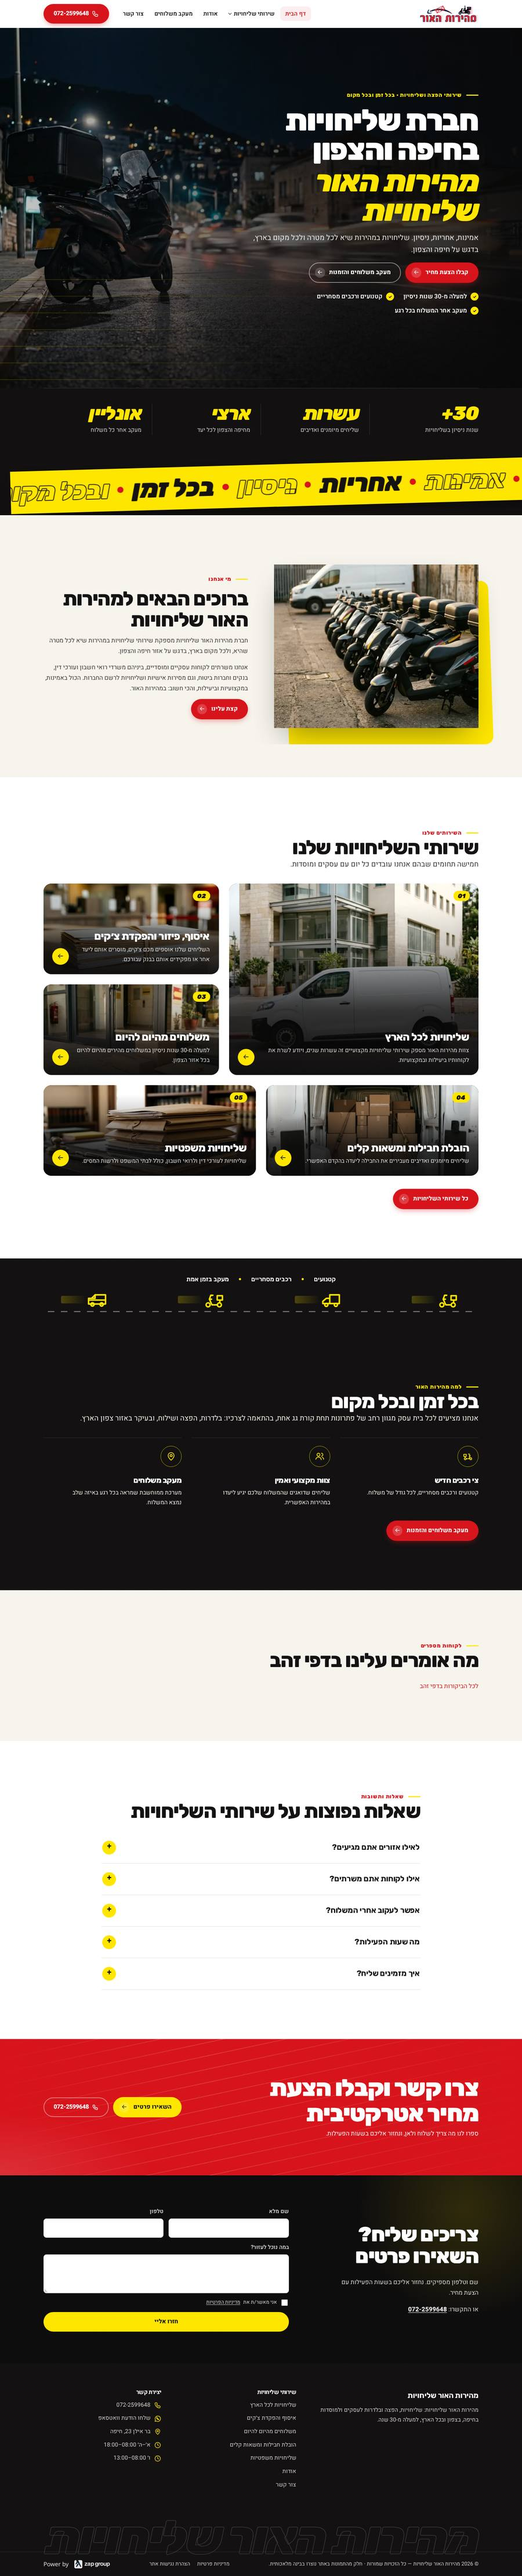
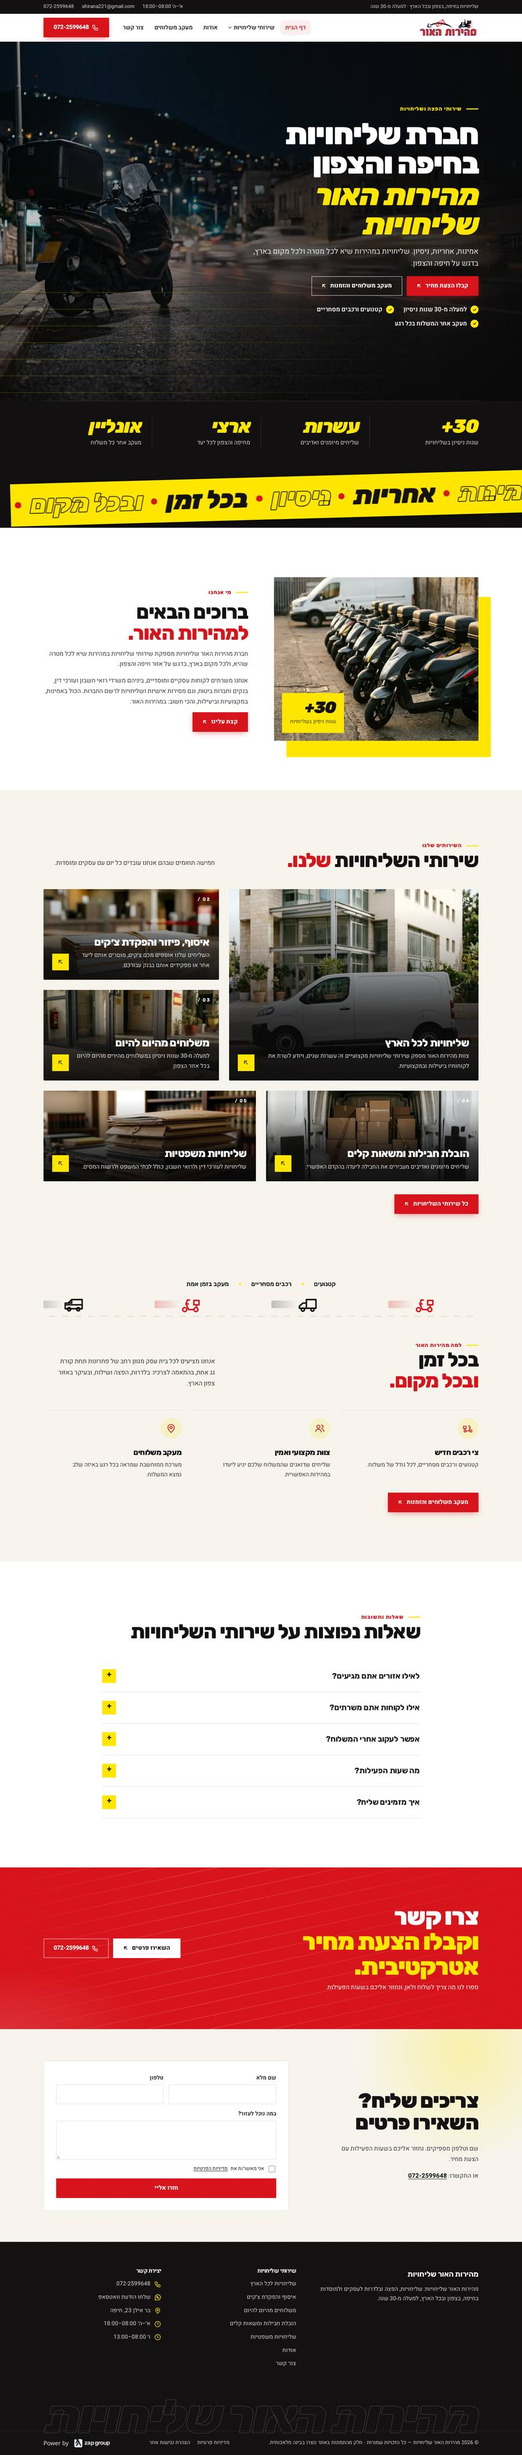
mehirut-haor: benchmark pass (sharp shapes, light lead band, road+features on light, 30+ badge, accents, YouTube on about, mobile hero); signature refinements; reviews only when real; zs static
- signature: one shape language from the radius token, ↖ arrow buttons, numbered tile labels, square FAQ/badge,
  light lead band, road+features merge on the same ground, phone hero framing + lighter scrim
- reviews section hidden until the Dapei Zahav widget shows settled real reviews (it paints a loading frame
  and empties itself when its API refuses staging hosts)
- zs static: offline browsable copy, Windows-safe file names (no ?ver=), fonts embedded, Elementor chunks + hero
  video included, form shows a notice

Claude-Session: https://claude.ai/code/session_01EGxYKywkt3VsBbtcmvV4mm

diff --git a/wp/theme/zap-base/assets/main.css b/wp/theme/zap-base/assets/main.css
@@ -724,3 +724,45 @@ body .zs-cards--bento .zs-card--img .e-con.zs-card__body { flex-grow: 0; --paddi
 .zs-p-signature .zs-prose ul li { position: relative; padding-inline-start: 26px; margin: 0; }
 .zs-p-signature .zs-prose ul li::before { content: ""; position: absolute; inset-inline-start: 0; top: .62em; width: 10px; height: 10px; border-radius: 2px; background: var(--c-accent); box-shadow: 2px 2px 0 var(--c-ink); }
 .zs-p-signature .zs-prose ol li::marker { color: var(--c-primary); font-weight: 800; }
+
+/* ===================== signature refinements (benchmark pass) ===================== */
+/* one shape language: everything follows the radius token (set radius 0–4 for sharp, 12+ for soft) */
+.zs-p-signature .zs-b .elementor-button, .zs-p-signature .zs-btn, .zs-p-signature .zs-header__cta { border-radius: var(--r-sm); }
+.zs-p-signature .zs-b-primary:not(.zs-b-tel):not(.zs-b-wa) .elementor-button::after,
+.zs-p-signature .zs-b-ghost:not(.zs-b-tel):not(.zs-b-wa) .elementor-button::after { content: "↖"; width: auto; height: auto; margin-inline-end: 0; background: none; border-radius: 0; font-weight: 700; }
+.zs-p-signature .zs-b .elementor-button:hover::after { transform: translate(-3px, -3px); }
+[dir="ltr"] .zs-p-signature .zs-b .elementor-button::after { content: "↗"; }
+.zs-cards--bento .e-con.zs-card--img::after { border-radius: 0; background: none; color: #fff; padding: 0; font-style: normal; font-weight: 700; font-size: .8rem; letter-spacing: .14em; content: counter(zs-tile, decimal-leading-zero) " /"; }
+.zs-cards--bento.zs-cards--linked .zs-card--img .e-con.zs-card__body::after { border-radius: var(--r-sm); content: "↖"; }
+.zs-p-signature .zs-faq__list .elementor-toggle .elementor-toggle-icon { border-radius: var(--r-sm); }
+.zs-p-signature .e-con.zs-split__media::before, .zs-p-signature .zs-split--rev .e-con.zs-split__media::before { transform: none; }
+.zs-p-signature .zs-badge { background: var(--c-accent); color: var(--c-accent-ink); box-shadow: none; border-radius: var(--r-sm); }
+.zs-p-signature .zs-badge strong { font-size: clamp(2rem, 1.4rem + 1.6vw, 2.8rem); font-weight: 900; font-style: italic; letter-spacing: -.03em; }
+.zs-p-signature .zs-badge span { color: color-mix(in srgb, var(--c-accent-ink) 82%, transparent); }
+.zs-p-signature .zs-split__media .elementor-element.zs-badge-w { inset-inline-start: auto; inset-inline-end: 22px; inset-block-end: 22px; z-index: 5; }
+.zs-p-signature .zs-split__media .zs-split__img { position: relative; z-index: 1; }
+@media (max-width: 900px) { .zs-p-signature .zs-split__media .elementor-element.zs-badge-w { inset-inline-end: 12px; inset-block-end: 12px; } }
+
+/* page end: brand CTA -> LIGHT lead band -> dark footer */
+.zs-p-signature .zs-leadband { background: var(--c-surface); color: var(--c-text); }
+.zs-p-signature .zs-leadband::before { background: radial-gradient(closest-side, color-mix(in srgb, var(--c-accent) 55%, transparent), transparent); opacity: .5; }
+.zs-p-signature .zs-leadband::after { display: none; }
+.zs-p-signature .zs-leadband h2, .zs-p-signature .zs-leadband__or a { color: var(--c-ink); }
+.zs-p-signature .zs-leadband .zs-form { background: var(--c-bg); padding: clamp(20px, 3vw, 34px); border: 1px solid var(--c-line); border-radius: var(--r-sm); color: var(--c-ink); }
+.zs-p-signature .zs-leadband .zs-form__submit { background: var(--c-primary); color: var(--c-primary-ink); }
+.zs-p-signature .zs-leadband .zs-form__submit:hover { background: color-mix(in srgb, var(--c-primary) 86%, #000); color: var(--c-primary-ink); }
+.zs-p-signature .zs-field input, .zs-p-signature .zs-field textarea { border-radius: var(--r-sm); }
+
+/* road + features on the same ground read as one section: no double padding between them */
+body .e-con.zs-road.zs-bg-surface + .e-con.zs-features.zs-bg-surface,
+body .e-con.zs-road.zs-bg-dark + .e-con.zs-features.zs-bg-dark { --padding-top: clamp(16px, 2vw, 28px); }
+body .e-con.zs-road { --padding-bottom: clamp(12px, 1.6vw, 24px); }
+
+/* reviews: shown only once the Dapei Zahav widget has really rendered reviews (site.js), never as an empty block */
+body .e-con.zs-reviews-sec:not(.zs-has-reviews) { display: none !important; }
+/* signature hero on phones: keep the subject in frame, lighter scrim at the top, less dead space */
+@media (max-width: 767px) {
+  .zs-p-signature .e-con.zs-hero--home { min-height: 0; --padding-top: 72px; --padding-bottom: 96px; }
+  .zs-p-signature.zs-hv-image .zs-hero--img .zs-hero__img img { object-position: 22% 60%; }
+  .zs-p-signature.zs-hv-image .zs-hero--img .zs-hero__media::after { background: linear-gradient(0deg, rgb(10 9 9 / .94) 0%, rgb(10 9 9 / .78) 45%, rgb(10 9 9 / .42) 100%); }
+}

diff --git a/wp/theme/zap-base/assets/site.js b/wp/theme/zap-base/assets/site.js
@@ -79,6 +79,20 @@
     }
   }
 
+  /* ---------- reviews: show the section only while the widget shows real reviews ----------
+     The Dapei Zahav widget first paints a "טוען חוות דעת..." frame and empties itself if its API fails
+     (it does on staging hosts), so judge the settled content, not the first paint. */
+  var rv = document.querySelector('.zs-reviews-sec');
+  if (rv) {
+    var tries = 0, t = setInterval(function () {
+      var w = rv.querySelector('zap-reviews');
+      var txt = w ? ((w.shadowRoot ? w.shadowRoot.textContent : '') + ' ' + w.textContent).replace(/\s+/g, ' ').trim() : '';
+      var real = txt.length > 80 && !/טוען/.test(txt);
+      rv.classList.toggle('zs-has-reviews', real);
+      if (++tries > 50) clearInterval(t);
+    }, 300);
+  }
+
   /* ---------- trust-strip counters: pure numbers only (15+, 98%, 1,200), never years ---------- */
   function count(el) {
     if (!motion || !el.matches('.zs-trust__list li')) return;

diff --git a/engine/static.py b/engine/static.py
@@ -1,0 +1,93 @@
+"""zs static: a browsable offline copy of the built site (open index.html, no server).
+
+For looking, not for launch: every page, link, image, font, animation and the hero video work from
+file://; the lead form only shows a notice and the Dapei Zahav reviews need the live domain.
+Windows-safe: no '?' or other reserved characters in file names (WordPress adds ?ver= to assets).
+"""
+import base64
+import re
+import shutil
+import subprocess
+import urllib.parse
+import zipfile
+from pathlib import Path
+
+RESERVED = re.compile(r'[?:*"<>|\\]')
+NOTE = ('<script>document.addEventListener("submit",function(e){e.preventDefault();'
+        'alert("עותק תצוגה מקומי: הטופס פעיל רק באתר החי.");},true);</script>')
+
+
+def export(site, out_zip=None):
+    base = site.url.rstrip("/")
+    tmp = site.dir / "static"
+    shutil.rmtree(tmp, ignore_errors=True)
+    tmp.mkdir(parents=True)
+    subprocess.run(["wget", "--no-proxy", "-q", "-e", "robots=off", "--recursive", "--level=5", "--page-requisites",
+                    "--convert-links", "--adjust-extension", "--restrict-file-names=nocontrol", "--no-host-directories",
+                    "--reject-regex", r"(wp-json|xmlrpc|wp-login|/feed/|\?p=|comments|wp-admin|oembed|replytocom)",
+                    base + "/"], cwd=tmp, check=False)
+    if not (tmp / "index.html").exists():
+        raise SystemExit(f"static export failed: is {base} running? (zs serve {site.slug})")
+
+    # media the crawler cannot see: hero videos (data-src) and Elementor's lazily loaded JS chunks
+    for f in tmp.rglob("*.html"):
+        for src in re.findall(r'data-src="' + re.escape(base) + r'/([^"]+)"', f.read_text(encoding="utf-8")):
+            src = urllib.parse.unquote(src)
+            dst = tmp / src
+            if not dst.exists() and (site.dir / "wp" / src).exists():
+                dst.parent.mkdir(parents=True, exist_ok=True)
+                shutil.copy2(site.dir / "wp" / src, dst)
+    chunks = site.dir / "wp/wp-content/plugins/elementor/assets/js/chunks"
+    if chunks.exists():
+        d = tmp / "wp-content/plugins/elementor/assets/js/chunks"
+        d.mkdir(parents=True, exist_ok=True)
+        for c in chunks.glob("*.js"):
+            shutil.copy2(c, d / c.name)
+
+    # Windows-safe names: main.css?ver=1.2.css -> main.css
+    renamed = {}
+    for f in sorted(tmp.rglob("*"), key=lambda p: -len(p.parts)):
+        if f.is_file() and RESERVED.search(f.name):
+            new = f.with_name(RESERVED.split(f.name, 1)[0] if "?" in f.name else RESERVED.sub("-", f.name))
+            if new.exists():
+                new.unlink()
+            f.rename(new)
+            renamed[f.name] = new.name
+
+    # fonts embedded (browsers block font files from file:// in some setups)
+    for css in (tmp / "wp-content/themes/zap-base/fonts").glob("*.css"):
+        t = css.read_text(encoding="utf-8")
+        t = re.sub(r"url\(([^)]+?\.woff2)\)",
+                   lambda m: "url(data:font/woff2;base64," + base64.b64encode((css.parent / m.group(1)).read_bytes()).decode() + ")", t)
+        css.write_text(t, encoding="utf-8")
+
+    for f in [*tmp.rglob("*.html"), *tmp.rglob("*.css"), *tmp.rglob("*.js")]:
+        t = f.read_text(encoding="utf-8", errors="surrogateescape")
+        o = t
+        for old, new in renamed.items():
+            for form in (old, old.replace("?", "%3F"), urllib.parse.quote(old, safe="=-._~")):
+                t = t.replace(form, new)
+        if f.suffix == ".html":
+            pre = "../" * (len(f.relative_to(tmp).parts) - 1)
+            t = re.sub(r'<link[^>]+(wp-json|oembed|xmlrpc|EditURI)[^>]*>\s*', "", t)
+            t = re.sub(r'<link rel="preload"[^>]+as="font"[^>]*>\s*', "", t)
+            t = t.replace(base + "/", pre).replace(base.replace("/", "\\/") + "\\/", pre.replace("/", "\\/"))
+            t = t.replace(base, pre or "./")
+            if NOTE not in t:
+                t = t.replace("</body>", NOTE + "</body>", 1)
+        if t != o:
+            f.write_text(t, encoding="utf-8", errors="surrogateescape")
+
+    (tmp / "README.txt").write_text(
+        "עותק תצוגה מקומי\n\n1. מחלצים את כל התיקייה (Extract all) - לא לפתוח מתוך ה-zip.\n"
+        "2. פותחים את index.html בדפדפן.\n\nלא פעיל בעותק המקומי: שליחת הטופס וביקורות דפי זהב (רק באתר החי).\n",
+        encoding="utf-8")
+    out_zip = Path(out_zip or site.src.parent.parent / "dist" / f"{site.slug}-preview.zip")
+    out_zip.parent.mkdir(parents=True, exist_ok=True)
+    with zipfile.ZipFile(out_zip, "w", zipfile.ZIP_DEFLATED) as z:
+        for f in sorted(tmp.rglob("*")):
+            if f.is_file():
+                rel = f.relative_to(tmp).as_posix()
+                assert not RESERVED.search(rel), rel
+                z.write(f, f"{site.slug}-preview/{rel}")
+    return out_zip, len(list(tmp.rglob("index.html")))

diff --git a/engine/zs.py b/engine/zs.py
@@ -10,6 +10,7 @@
   zs image <slug> <key> "<prompt>"  AI atmosphere image -> sites/<slug>/assets/<key>.png (needs OPENAI_API_KEY)
   zs grab <slug> <url>              research the client's old site (Wayback fallback) -> sites/<slug>/research/
   zs fetch-image <slug> <key> <url> download a generated asset (Weave output) into sites/<slug>/assets/
+  zs static <slug>                  offline browsable copy (open index.html) -> dist/<slug>-preview.zip
   zs package <slug> --domain https://client.co.il
   zs publish <slug>                 upload the zip as a GitHub release asset (+ SharePoint if set)
   zs list                           sites on this machine
@@ -82,6 +83,14 @@ def cmd_image(a):
     out.parent.mkdir(parents=True, exist_ok=True)
     generate(a.prompt, out, a.size)
     print(f"{out}\nadd to site.json images: \"{a.key}\": {{\"src\": \"assets/{a.key}.png\", \"alt\": \"<what it shows, in Hebrew>\", \"ai\": true}}")
+
+
+def cmd_static(a):
+    from static import export
+    s = Site(a.slug)
+    s.serve()
+    z, n = export(s)
+    print(f"{n} pages -> {z}")
 
 
 def cmd_grab(a):
@@ -178,6 +187,7 @@ def main():
     x = sub.add_parser("qa"); x.add_argument("slug"); x.set_defaults(f=cmd_qa)
     x = sub.add_parser("preview"); x.add_argument("slug"); x.set_defaults(f=cmd_preview)
     x = sub.add_parser("doctor"); x.set_defaults(f=cmd_doctor)
+    x = sub.add_parser("static"); x.add_argument("slug"); x.set_defaults(f=cmd_static)
     x = sub.add_parser("grab"); x.add_argument("slug"); x.add_argument("url"); x.add_argument("--pages", type=int, default=25); x.set_defaults(f=cmd_grab)
     x = sub.add_parser("fetch-image"); x.add_argument("slug"); x.add_argument("key"); x.add_argument("url"); x.add_argument("--ext"); x.set_defaults(f=cmd_fetch_image)
     x = sub.add_parser("image");x.add_argument("slug"); x.add_argument("key"); x.add_argument("prompt"); x.add_argument("--size", default="1536x1024"); x.set_defaults(f=cmd_image)

diff --git a/sites/mehirut-haor/QA-REPORT.md b/sites/mehirut-haor/QA-REPORT.md
@@ -10,23 +10,23 @@
 
 | viewport | page | errors | warnings | KB | details |
 |---|---|---|---|---|---|
-| desktop | /שירותי-שליחויות/משלוחים-מהיום-להיום/ | 0 | 0 | 899 |  |
-| desktop | /שירותי-שליחויות/הובלת-חבילות-ומשאות-קלים/ | 0 | 0 | 908 |  |
-| desktop | /שירותי-שליחויות/שליחויות-משפטיות/ | 0 | 0 | 911 |  |
-| desktop | /שירותי-שליחויות/ | 0 | 0 | 1259 |  |
-| desktop | /אודות/ | 0 | 0 | 1169 |  |
-| desktop | /צור-קשר/ | 0 | 0 | 798 |  |
-| desktop | /מדיניות-פרטיות/ | 0 | 1 | 575 | meta description length 73 |
-| desktop | /שירותי-שליחויות/שליחויות-לכל-הארץ/ | 0 | 0 | 944 |  |
-| desktop | /שירותי-שליחויות/איסוף-והפקדת-צקים/ | 0 | 0 | 895 |  |
-| desktop | / | 0 | 0 | 1753 |  |
-| mobile | /שירותי-שליחויות/משלוחים-מהיום-להיום/ | 0 | 0 | 839 |  |
-| mobile | /שירותי-שליחויות/הובלת-חבילות-ומשאות-קלים/ | 0 | 0 | 842 |  |
-| mobile | /שירותי-שליחויות/שליחויות-משפטיות/ | 0 | 0 | 848 |  |
-| mobile | /שירותי-שליחויות/ | 0 | 0 | 1154 |  |
-| mobile | /אודות/ | 0 | 0 | 1032 |  |
-| mobile | /צור-קשר/ | 0 | 0 | 761 |  |
-| mobile | /מדיניות-פרטיות/ | 0 | 1 | 538 | meta description length 73 |
-| mobile | /שירותי-שליחויות/שליחויות-לכל-הארץ/ | 0 | 0 | 863 |  |
-| mobile | /שירותי-שליחויות/איסוף-והפקדת-צקים/ | 0 | 0 | 837 |  |
-| mobile | / | 0 | 1 | 1202 | console: Failed to load resource: the server responded with a status of 500 (Internal Server Error) |
+| desktop | /שירותי-שליחויות/משלוחים-מהיום-להיום/ | 0 | 0 | 917 |  |
+| desktop | /שירותי-שליחויות/הובלת-חבילות-ומשאות-קלים/ | 0 | 0 | 926 |  |
+| desktop | /שירותי-שליחויות/שליחויות-משפטיות/ | 0 | 0 | 929 |  |
+| desktop | /שירותי-שליחויות/ | 0 | 0 | 1278 |  |
+| desktop | /אודות/ | 0 | 0 | 1215 |  |
+| desktop | /צור-קשר/ | 0 | 0 | 816 |  |
+| desktop | /מדיניות-פרטיות/ | 0 | 1 | 593 | meta description length 73 |
+| desktop | /שירותי-שליחויות/שליחויות-לכל-הארץ/ | 0 | 0 | 963 |  |
+| desktop | /שירותי-שליחויות/איסוף-והפקדת-צקים/ | 0 | 0 | 913 |  |
+| desktop | / | 0 | 0 | 1910 |  |
+| mobile | /שירותי-שליחויות/משלוחים-מהיום-להיום/ | 0 | 0 | 857 |  |
+| mobile | /שירותי-שליחויות/הובלת-חבילות-ומשאות-קלים/ | 0 | 0 | 860 |  |
+| mobile | /שירותי-שליחויות/שליחויות-משפטיות/ | 0 | 0 | 866 |  |
+| mobile | /שירותי-שליחויות/ | 0 | 0 | 1173 |  |
+| mobile | /אודות/ | 0 | 0 | 1078 |  |
+| mobile | /צור-קשר/ | 0 | 0 | 779 |  |
+| mobile | /מדיניות-פרטיות/ | 0 | 1 | 556 | meta description length 73 |
+| mobile | /שירותי-שליחויות/שליחויות-לכל-הארץ/ | 0 | 0 | 882 |  |
+| mobile | /שירותי-שליחויות/איסוף-והפקדת-צקים/ | 0 | 0 | 856 |  |
+| mobile | / | 0 | 1 | 1222 | console: Failed to load resource: the server responded with a status of 500 (Internal Server Error) |

diff --git a/sites/mehirut-haor/NOTES.md b/sites/mehirut-haor/NOTES.md
@@ -46,6 +46,9 @@ hi-tech. Fear: a document/cheque that does not arrive on time, or a courier who 
 - Tracking system is plain http on a bare IP (browser "not secure"); opens in a new tab
 
 ## Research log (2026-10-07)
+- Old site (via the other session's `zs grab`, Wayback): 2nd phone 04-8040404 — NOT used (brief gives 072-2599648 as display, and it is not on d.co.il); business YouTube video QhidydOUNoM ("מהירות האור שליחויות בכל הארץ", the company's own channel, verified by oEmbed) → about page.
+- From this session's sandbox archive.org is blocked, so `zs grab` returns nothing here.
+- Reviews: widget loads, Zap reviews API answers 500 for staging hosts → section stays hidden until the widget shows real reviews (live domain).
 - d.co.il: id 80240748 confirmed, hours match the brief, services list matches; reviews come from the official Zap widget (no rating text on the site itself).
 - Google Maps CID + geo from the d.co.il page. Facebook link matches the brief.
 
@@ -61,6 +64,10 @@ hi-tech. Fear: a document/cheque that does not arrive on time, or a courier who 
 | …/שליחויות-משפטיות/ | שליחויות משפטיות | שליחויות משפטיות ברחבי הארץ |
 | /אודות/ | חברת שליחויות בצפון | אודות מהירות האור שליחויות — חברת שליחויות בצפון |
 | /צור-קשר/ | צור קשר מהירות האור שליחויות | צור קשר — מהירות האור שליחויות |
+
+## Design decisions (benchmark pass)
+- Direction A (signature, full-bleed night hero + Veo loop). Shape language: sharp (radius 2), hairlines, ↖ arrows.
+- Rhythm: dark hero+stats+marquee → light split → bento → light road+features → FAQ → red CTA → light lead band → dark footer.
 
 ## Engine changes made in this session (generic)
 - New section `road` (animated vehicles lane, CSS only, static under reduced motion) + icons `scooter`, `van`.

diff --git a/sites/mehirut-haor/preview/PREVIEW.md b/sites/mehirut-haor/preview/PREVIEW.md
@@ -2,26 +2,10 @@
 
 אותו תוכן, אותו מבנה. משתנים רק צבעים, גופנים, פינות וסגנון ה-Hero. בוחרים אות אחת.
 
-## A · לילה ומהירות: תמונה מלאה, צהוב על שחור
-
-סגנון `clean` · Hero `image` · גופנים Rubik / Heebo
-
-| מחשב | נייד |
-|---|---|
-| <img src="dir-a-desktop.jpg" width="620"> | <img src="dir-a-mobile.jpg" width="250"> |
-
-## B · מסגרת צהובה: תמונה ממוסגרת על רקע כהה
+## A · הכיוון הנוכחי
 
 סגנון `clean` · Hero `split` · גופנים Rubik / Heebo
 
 | מחשב | נייד |
 |---|---|
-| <img src="dir-b-desktop.jpg" width="620"> | <img src="dir-b-mobile.jpg" width="250"> |
-
-## C · הצהרה: כותרת ענקית במרכז ותמונה רחבה
-
-סגנון `clean` · Hero `centered` · גופנים Rubik / Heebo
-
-| מחשב | נייד |
-|---|---|
-| <img src="dir-c-desktop.jpg" width="620"> | <img src="dir-c-mobile.jpg" width="250"> |
+| <img src="dir-a-desktop.jpg" width="620"> | <img src="dir-a-mobile.jpg" width="250"> |

diff --git a/.claude/skills/zap-site/SKILL.md b/.claude/skills/zap-site/SKILL.md
@@ -69,7 +69,8 @@ bin/zs preview <slug>                   # → sites/<slug>/preview/PREVIEW.md (3
 git add sites/<slug> && git commit -m "<slug>: plan + preview" && git push -u origin site/<slug>
 ```
 
-Look at the preview images yourself first (Read them); fix anything ugly before the user sees it.
+Want to click through it? `bin/zs static <slug>` → `dist/<slug>-preview.zip` (open index.html, no server;
+Windows-safe names; the form and Dapei Zahav reviews only work live). Look at the preview images yourself first (Read them); fix anything ugly before the user sees it.
 Then send the user, in one message:
 - link: `https://github.com/<owner>/<repo>/blob/site/<slug>/sites/<slug>/preview/PREVIEW.md`
 - the page tree with each page's keyword and H1 (short table)
